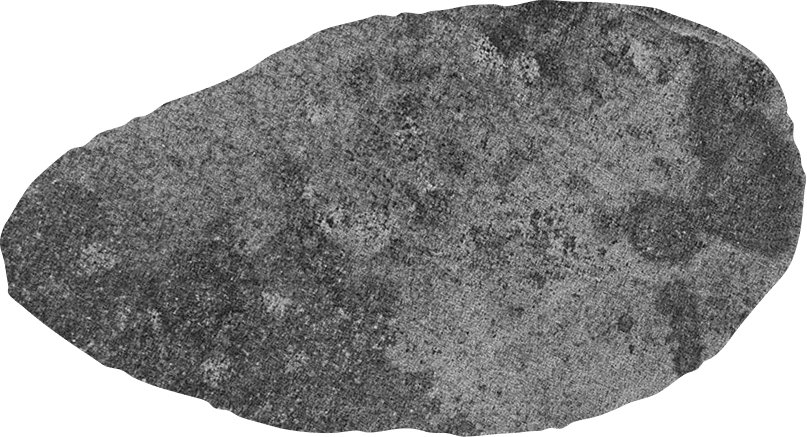
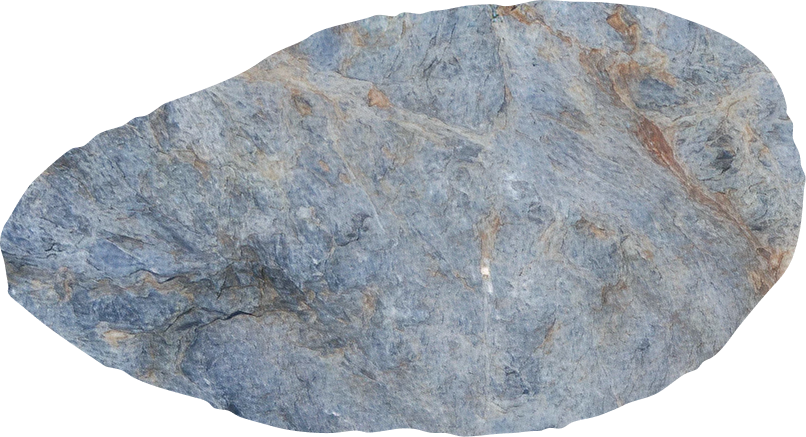
tweaks new fonts, prepping for big new pages

diff --git a/landing-figma-preview.html b/landing-figma-preview.html
@@ -82,6 +82,7 @@
             background-size: 1254px 1254px;
             color: var(--ink);
             font-family: 'PP Museum', Georgia, 'Times New Roman', serif;
+            font-weight: 300;
         }
 
         button,
@@ -134,7 +135,7 @@
             position: absolute;
             left: 27px;
             top: 18px;
-            width: 42px;
+            width: 38px;
             height: auto;
             display: block;
         }
@@ -311,18 +312,27 @@
 
         .quote-layer text {
             font-family: 'PP Museum', Georgia, 'Times New Roman', serif;
-            font-size: 23px;
-            font-weight: 400;
+            font-size: 26px;
+            font-weight: 300;
             line-height: 1;
             fill: var(--ink);
         }
 
         .quote-layer .quote-small {
-            font-size: 22px;
+            font-size: 25px;
         }
 
         .quote-cursor {
+            animation: none;
+            font-size: 0.74em;
+            opacity: 0;
+            fill:#994E41;
+            
+        }
+
+        .quote-active .quote-cursor {
             animation: quote-cursor-blink 0.92s steps(1, end) infinite;
+            opacity: 1;
         }
 
         .quote-complete .quote-cursor,
@@ -356,7 +366,7 @@
             width: 680px;
             transform: translateX(-50%);
             text-align: center;
-            font-size: 26px;
+            font-size: 34px;
             line-height: 1.3;
             letter-spacing: 0;
             opacity: 0;
@@ -471,13 +481,11 @@
             position: absolute;
             z-index: 8;
             left: 24px;
-            top: 2594px;
-            font-family: 'PP Museum', Georgia, serif;
-            font-size: 448px;
-            line-height: 0.82;
-            font-weight: 400;
-            letter-spacing: -13px;
-            white-space: nowrap;
+            top: 2588px;
+            display: block;
+            width: 1392px;
+            height: auto;
+            pointer-events: none;
         }
 
         .footer-links {
@@ -904,8 +912,8 @@
                     <defs>
                         <path id="quote-path-road" d="M0.118164 42.6289C14.9182 39.0289 16.4515 36.2972 33.1182 31.1306L120.118 10.6306C133.618 6.79724 165.018 -0.56943 182.618 0.63057C204.618 2.13057 223.618 10.1289 238.118 14.6289C249.718 18.2289 282.618 30.7956 297.618 36.6289L363.118 72.1289C381.118 81.9622 419.318 105.929 428.118 113.129C436.918 120.329 445.118 131.296 448.618 135.129L477.618 169.629L507.118 204.629L525.618 234.629L537.118 254.129" />
                         <path id="quote-path-mapping" d="M505.118 699.629C516.618 679.296 551.518 636.729 599.118 629.129L637.618 623.129L718.618 620.629L772.118 623.129C782.951 622.296 808.018 620.629 821.618 620.629C835.218 620.629 860.618 620.629 871.618 620.629C887.285 621.129 925.118 624.429 951.118 633.629C977.118 642.829 992.285 648.796 996.618 650.629L1053.12 672.629L1089.62 688.629L1133.62 710.129C1141.12 714.796 1159.82 728.629 1174.62 746.629C1189.42 764.629 1212.12 785.796 1221.62 794.129L1267.12 856.129" />
-                        <path id="quote-path-didion-left" d="M85 1003C142.8 996.5 213.5 1027.9 269.6 1081.9" />
-                        <path id="quote-path-didion-right" d="M255 1045C266 1006 280 966 297 929" />
+                        <path id="quote-path-didion-left" d="M80 1008C137.8 1001.5 208.5 1032.9 264.6 1086.9" />
+                        <path id="quote-path-didion-right" d="M249.1 1042.5C264.1 1004.9 282.2 966.5 302.9 931.5" />
                         <path id="quote-path-think" d="M918.118 1396.63C928.518 1391.03 953.451 1371.96 964.618 1363.13C985.785 1348.46 1032.52 1318.53 1050.12 1316.13C1067.72 1313.73 1111.78 1311.8 1131.62 1311.13C1143.12 1311.8 1170.62 1315.03 1188.62 1322.63C1206.62 1330.23 1238.12 1337.8 1251.62 1340.63C1260.45 1344.3 1279.82 1352.43 1286.62 1355.63C1293.42 1358.83 1298.45 1361.96 1300.12 1363.13" />
                     </defs>
                     <text>
@@ -915,7 +923,7 @@
                         <textPath href="#quote-path-mapping" startOffset="0%" data-typewriter data-full="It is the slow process of mapping words to thoughts you didn't know you had."></textPath>
                     </text>
                     <text class="quote-small">
-                        <textPath href="#quote-path-didion-left" startOffset="0%" data-typewriter data-full="Joan Didion said"></textPath>
+                        <textPath href="#quote-path-didion-left" startOffset="0%" data-typewriter data-continue-next="true" data-full="Joan Didion said"></textPath>
                     </text>
                     <text class="quote-small">
                         <textPath href="#quote-path-didion-right" startOffset="0%" data-typewriter data-full="it better,"></textPath>
@@ -926,12 +934,11 @@
                 </svg>
 
                 <div class="intro-copy">
-                    <div>Marker is a writing tool built to help you discover</div>
-                    <div>what <em>you</em> think. To write with you, not for you.</div>
+                    <div>Marker is a writing tool built<br/> to help you discover what <span class="underline">you</span> think.</div><div>To write with you, not for you.</div>
                 </div>
 
                 <section class="waitlist-panel" aria-label="Join the Marker waitlist">
-                    <h1>Write with us.</h1>
+                    <h1 class="font-300 text-[30px]">Write with us.</h1>
                     <form class="signup-form" novalidate>
                         <label for="fields_email" hidden>Enter your email</label>
                         <input type="email" id="fields_email" name="fields[email]" placeholder="Enter your email" required title="">
@@ -939,7 +946,7 @@
                     </form>
                 </section>
 
-                <div class="bottom-wordmark" aria-hidden="true">Marker</div>
+                <img class="bottom-wordmark" src="images/marker-logo.svg" alt="" aria-hidden="true">
                 <nav class="footer-links" aria-label="Footer">
                     <a href="#" data-open-about>About</a>
                     <a href="/jobs">Jobs</a>
@@ -1094,6 +1101,7 @@
         const scrollCue = document.querySelector('[data-scroll-cue]');
         const SVG_NS = 'http://www.w3.org/2000/svg';
         const QUOTE_TYPE_DELAY = 30;
+        const INTRO_REVEAL_DELAY = 1400;
         const SCROLL_CUE_THRESHOLD = 90;
         let scrollCueDismissed = false;
 
@@ -1134,7 +1142,7 @@
 
             textSpan.classList.add('quote-typed-text');
             cursorSpan.classList.add('quote-cursor');
-            cursorSpan.textContent = '|';
+            cursorSpan.textContent = '█';
             target.textContent = '';
             target.append(textSpan, cursorSpan);
 
@@ -1159,14 +1167,21 @@
             return text.match(/[^,.]+[,.]?/g) || [text];
         }
 
-        function completeQuote(target, onComplete) {
-            window.setTimeout(() => {
+        function completeQuote(target, onComplete, delay = 520) {
+            const complete = () => {
+                target.parentElement.classList.remove('quote-active');
                 target.parentElement.classList.add('quote-complete');
                 if (onComplete) onComplete();
-            }, 520);
+            };
+
+            if (delay > 0) {
+                window.setTimeout(complete, delay);
+            } else {
+                complete();
+            }
         }
 
-        function fallbackTypeQuote(target, textSpan, text, initialPause, onComplete) {
+        function fallbackTypeQuote(target, textSpan, text, initialPause, onComplete, completionDelay = 520) {
             let index = 0;
 
             function typeNext() {
@@ -1175,7 +1190,7 @@
                 index += 1;
 
                 if (index >= text.length) {
-                    completeQuote(target, onComplete);
+                    completeQuote(target, onComplete, completionDelay);
                     return;
                 }
 
@@ -1190,8 +1205,10 @@
                 index,
                 target,
                 parts: prepareQuoteTarget(target),
+                continueNext: target.dataset.continueNext === 'true',
                 isVisible: false,
-                isStarted: false
+                isStarted: false,
+                skipInitialPause: false
             }));
 
             if (prefersReducedMotion) {
@@ -1212,8 +1229,11 @@
                     if (prepared.index === 0) maybeShowScrollCue();
                     activeQuoteIndex += 1;
                     if (activeQuoteIndex >= preparedTargets.length) {
-                        revealIntroCopy();
+                        window.setTimeout(revealIntroCopy, INTRO_REVEAL_DELAY);
                         return;
+                    }
+                    if (prepared.continueNext) {
+                        preparedTargets[activeQuoteIndex].skipInitialPause = true;
                     }
                     tryStartVisibleQuote();
                 });
@@ -1224,12 +1244,14 @@
                 if (prepared.isStarted) return;
                 prepared.isStarted = true;
                 target.dataset.started = 'true';
+                target.parentElement.classList.add('quote-active');
 
                 const text = target.dataset.full || '';
-                const initialPause = 128 + Math.round(Math.random() * 272);
+                const initialPause = prepared.skipInitialPause ? 0 : 128 + Math.round(Math.random() * 272);
+                const completionDelay = prepared.continueNext ? 0 : 520;
 
                 if (typeof window.Typewriter !== 'function') {
-                    fallbackTypeQuote(target, parts.textSpan, text, initialPause, onComplete);
+                    fallbackTypeQuote(target, parts.textSpan, text, initialPause, onComplete, completionDelay);
                     return;
                 }
 
@@ -1244,10 +1266,15 @@
                 });
 
                 typewriter.pauseFor(initialPause);
-                splitQuoteIntoPhrases(text).forEach((phrase) => {
-                    typewriter.typeString(phrase).pauseFor(getQuotePause(phrase));
+                const phrases = splitQuoteIntoPhrases(text);
+                phrases.forEach((phrase, index) => {
+                    const isFinalPhrase = index === phrases.length - 1;
+                    typewriter.typeString(phrase);
+                    if (!(prepared.continueNext && isFinalPhrase)) {
+                        typewriter.pauseFor(getQuotePause(phrase));
+                    }
                 });
-                typewriter.callFunction(() => completeQuote(target, onComplete)).start();
+                typewriter.callFunction(() => completeQuote(target, onComplete, completionDelay)).start();
             };
 
             if (!('IntersectionObserver' in window)) {